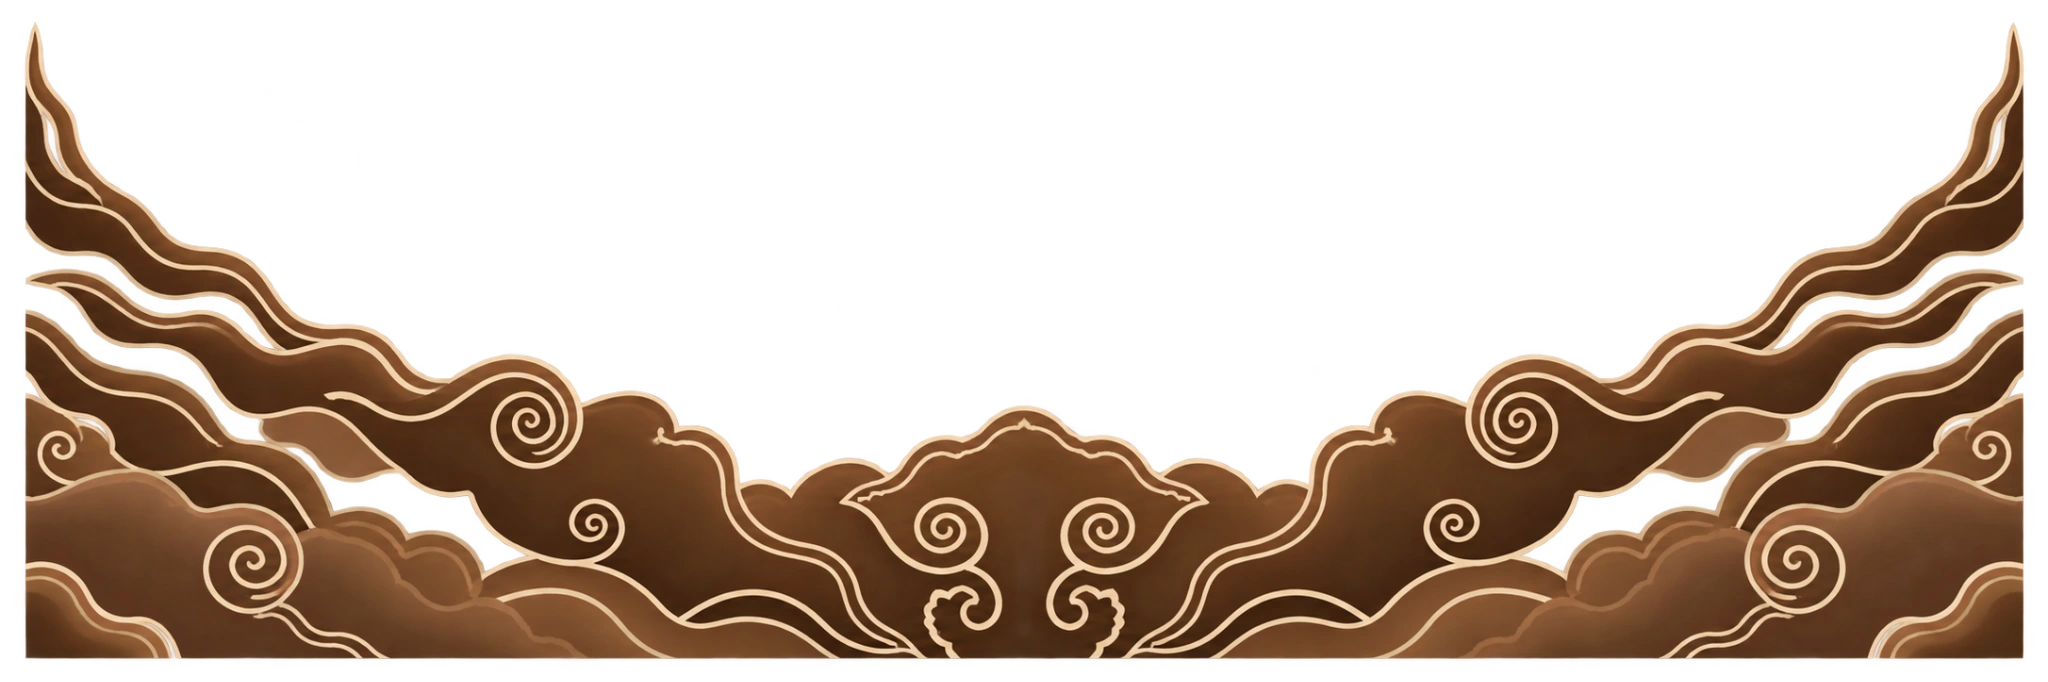
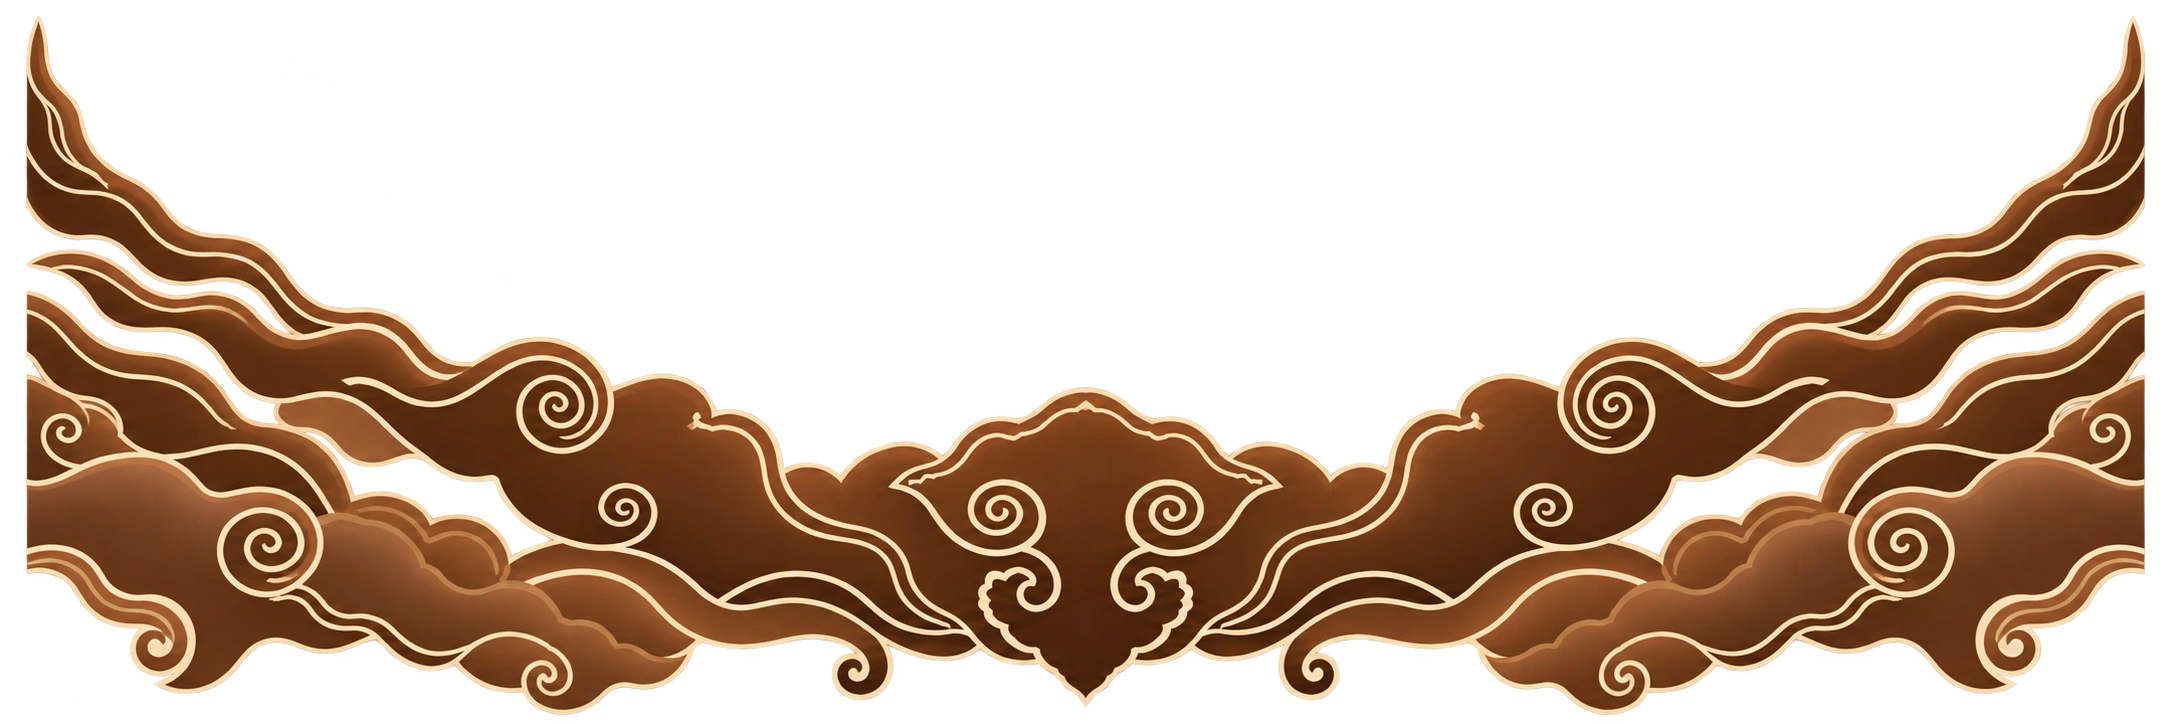
Complete the bottom edge of the Wayang footer asset

diff --git a/public/themes/wayang-jawa/vistiq-wayang.css b/public/themes/wayang-jawa/vistiq-wayang.css
@@ -3526,7 +3526,7 @@ html:not([data-idb-cover-closed]){overflow-y:auto!important}
 /* Final footer placement: one wave only, locked to the bottom edge */
 #sec{overflow:hidden!important}
 #sec::before{all:unset!important;content:none!important;display:none!important}
-#sec::after{content:""!important;position:absolute!important;left:0!important;right:0!important;bottom:0!important;display:block!important;width:100%!important;height:auto!important;aspect-ratio:2048/682!important;z-index:3!important;pointer-events:none!important;clip-path:none!important;transform:none!important;border-radius:0!important;background:transparent url("/themes/wayang-jawa/vistiq-wayang-footer.webp") center bottom/contain no-repeat!important;box-shadow:none!important}
+#sec::after{content:""!important;position:absolute!important;left:0!important;right:0!important;bottom:0!important;display:block!important;width:100%!important;height:auto!important;aspect-ratio:2171/724!important;z-index:3!important;pointer-events:none!important;clip-path:none!important;transform:none!important;border-radius:0!important;background:transparent url("/themes/wayang-jawa/vistiq-wayang-footer.webp") center bottom/contain no-repeat!important;box-shadow:none!important}
 
 /* Wayang accent in the lower open area of the Love Story section */
 .elementor-element-689aed41 .elementor-element-361fc64e{position:relative!important;}
